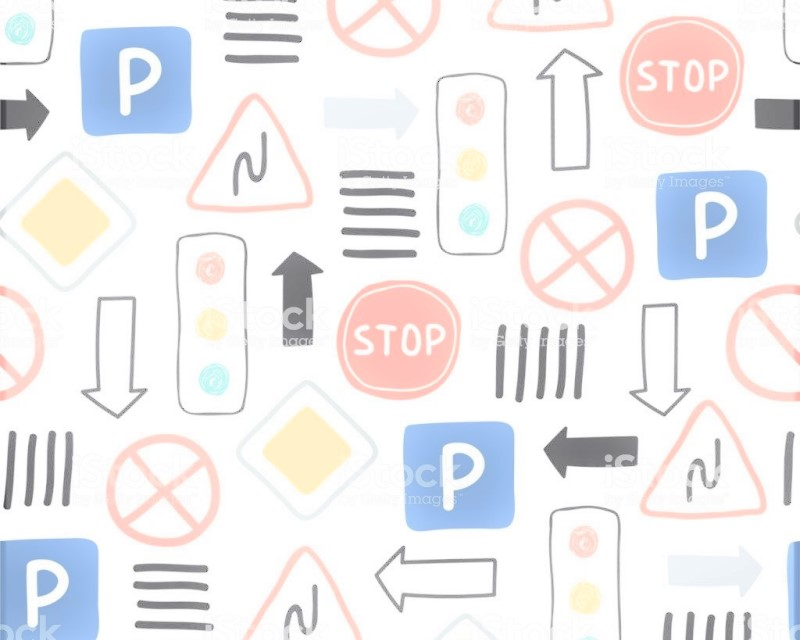
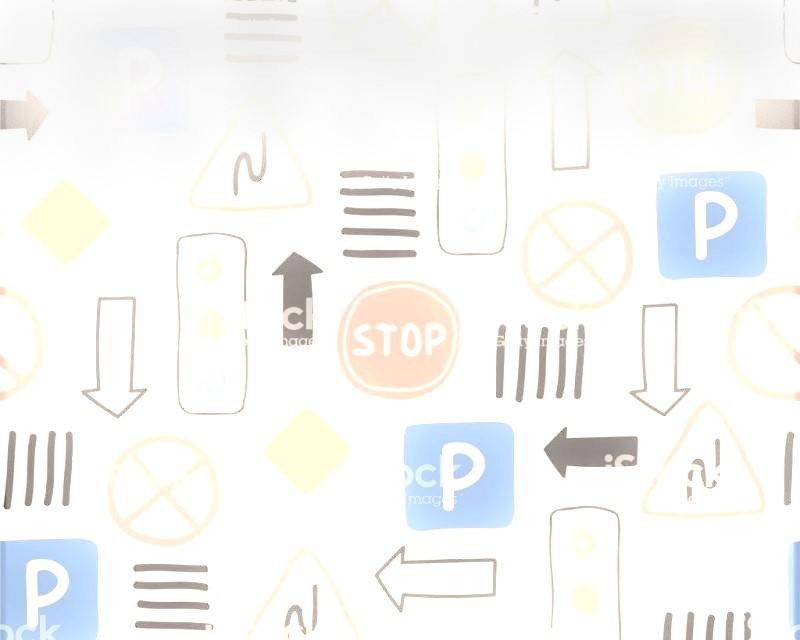
changes to bg imgs

diff --git a/tutorial.py b/tutorial.py
@@ -15,10 +15,10 @@ def main(username):
         pg.display.set_caption("Brain Rush!")
         screen.fill((174,214,220))
         
-        bg_main = pg.image.load("QImages\\lbg.png")
+        bg_main = pg.image.load("QImages\\batsbg.png")
         screen.blit(bg_main,(0,0))
 
-        screen.blit(font.render('How To Play', True,(0,0,0)),(325,40))
+        screen.blit(font.render('How To Play', True,(255,255,255)),(325,40))
 
         mouse=pg.mouse.get_pos()
         click=pg.mouse.get_pressed()

diff --git a/homepage.py b/homepage.py
@@ -77,7 +77,7 @@ def main(username):
         bg_main = pg.image.load("QImages\\traffic_wp.jpg")
         screen.blit(bg_main,(0,0))
         
-        screen.blit(font.render('Welcome to Brain Rush!!!', True, (0, 0, 0)), (50, 20))
+        screen.blit(font.render('Welcome to Brain Rush!!!', True, (0, 0, 0)), (75, 20))
         playerImg = pg.image.load('vampire.png')
         pg.display.set_icon(playerImg)
         screen.blit(playerImg, (370, 70))
